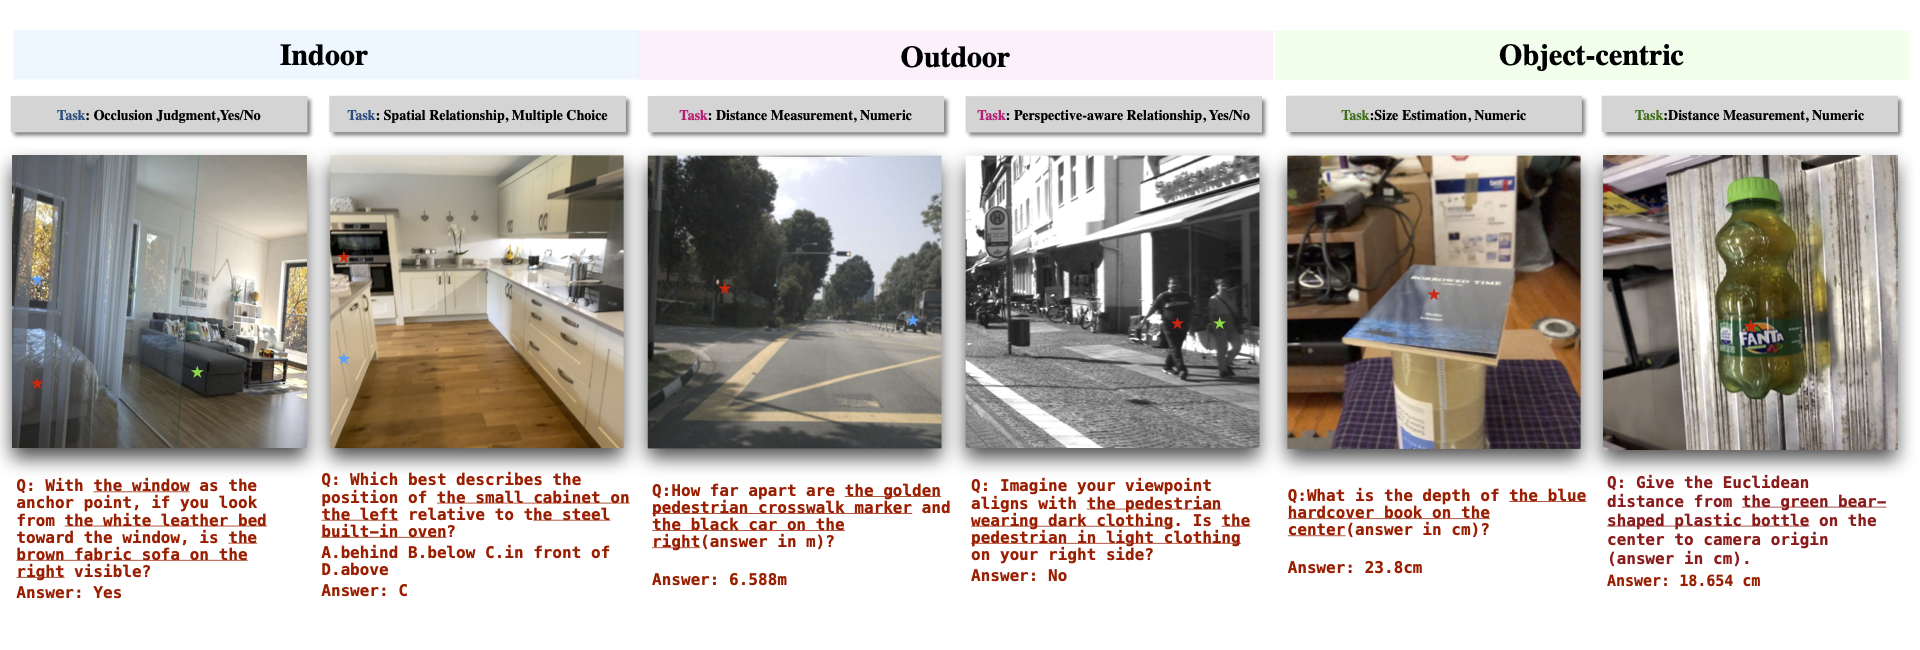
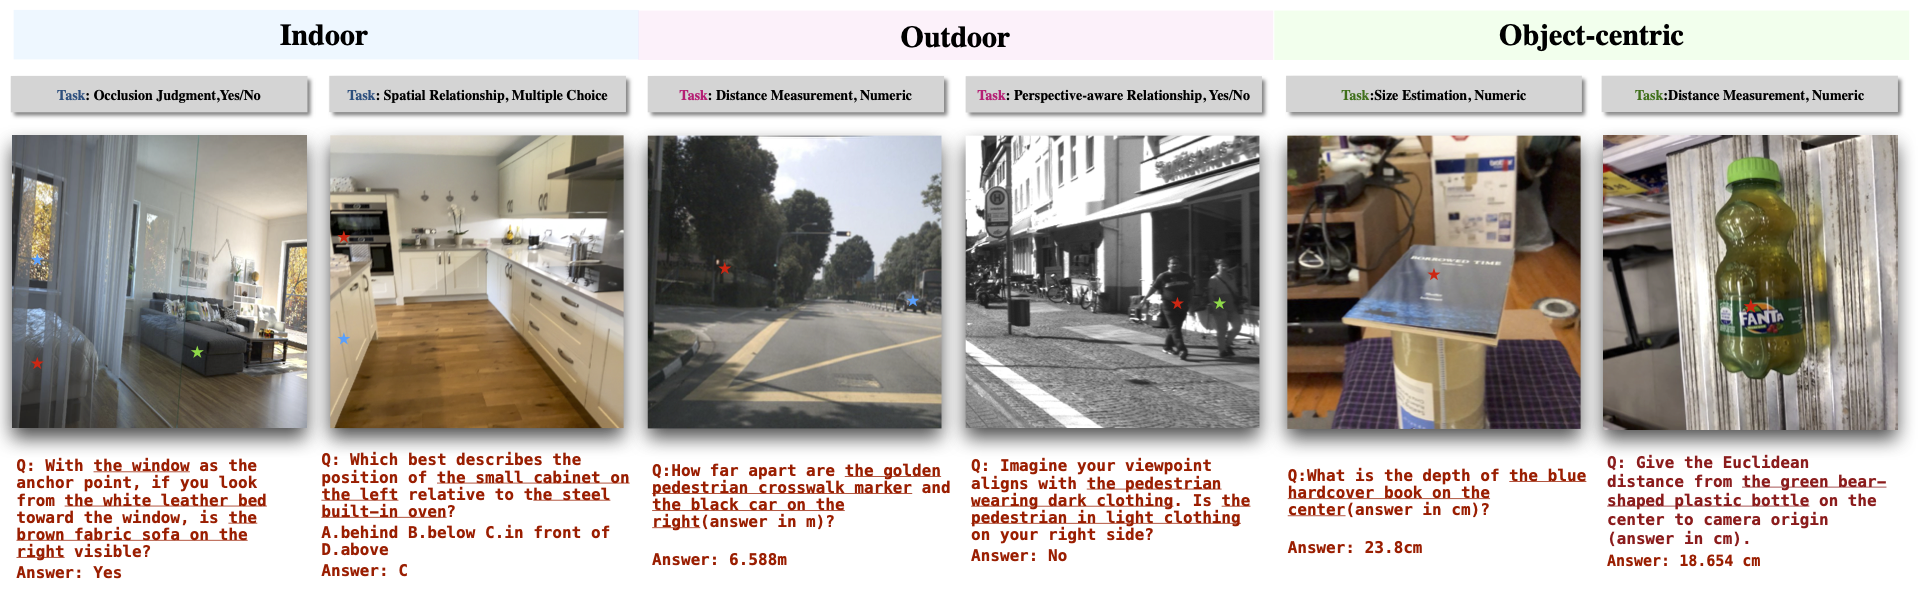
Refine page visuals

diff --git a/index.html b/index.html
@@ -18,7 +18,7 @@
   <link rel="stylesheet"
         href="https://cdn.jsdelivr.net/gh/jpswalsh/academicons@1/css/academicons.min.css">
   <link rel="stylesheet" href="./static/css/index.css">
-  <link rel="icon" href="./static/images/favicon.svg">
+  <link rel="icon" href="./static/images/favicon.svg?v=2" type="image/svg+xml">
 
   <script src="https://ajax.googleapis.com/ajax/libs/jquery/3.5.1/jquery.min.js"></script>
   <script defer src="./static/js/fontawesome.all.min.js"></script>
@@ -200,7 +200,7 @@
       <figure class="project-figure project-figure--wide">
         <img src="./static/images/visualization.png"
              alt="MonoSR qualitative visualizations"
-             width="1920" height="650" loading="lazy">
+             width="1920" height="590" loading="lazy">
       </figure>
     </div>
   </div>
@@ -240,10 +240,10 @@
     <!--/ Abstract. -->
 
     <!-- Pipeline overview：pipeline.png + 紧凑容器 -->
-    <div class="columns is-centered has-text-centered" style="margin-top: 1.5rem; margin-bottom: 0;">
-      <div class="column is-four-fifths" style="padding-top: 0; padding-bottom: 0;">
+    <div class="columns is-centered has-text-centered pipeline-overview" style="margin-top: 1.5rem; margin-bottom: 0;">
+      <div class="column is-full" style="padding-top: 0; padding-bottom: 0;">
         <h2 class="title is-3" style="margin-bottom: 0.75rem;">Pipeline Overview</h2>
-        <figure class="project-figure project-figure--wide">
+        <figure class="project-figure project-figure--xwide">
           <img src="./static/images/pipeline.png"
                alt="MonoSR pipeline"
                width="1540" height="660" loading="lazy">

diff --git a/static/css/index.css b/static/css/index.css
@@ -37,6 +37,10 @@ body {
   width: min(100%, 1120px);
 }
 
+.project-figure--xwide {
+  width: min(100%, 1360px);
+}
+
 .project-figure img {
   display: block;
   width: 100%;
@@ -46,9 +50,21 @@ body {
   background: #ffffff;
 }
 
+.pipeline-overview {
+  width: min(calc(100vw - 2rem), 1360px);
+  margin-left: 50%;
+  transform: translateX(-50%);
+}
+
 @media screen and (max-width: 768px) {
   .project-figure {
     width: 100%;
+  }
+
+  .pipeline-overview {
+    width: 100%;
+    margin-left: 0;
+    transform: none;
   }
 
   .project-figure img {
